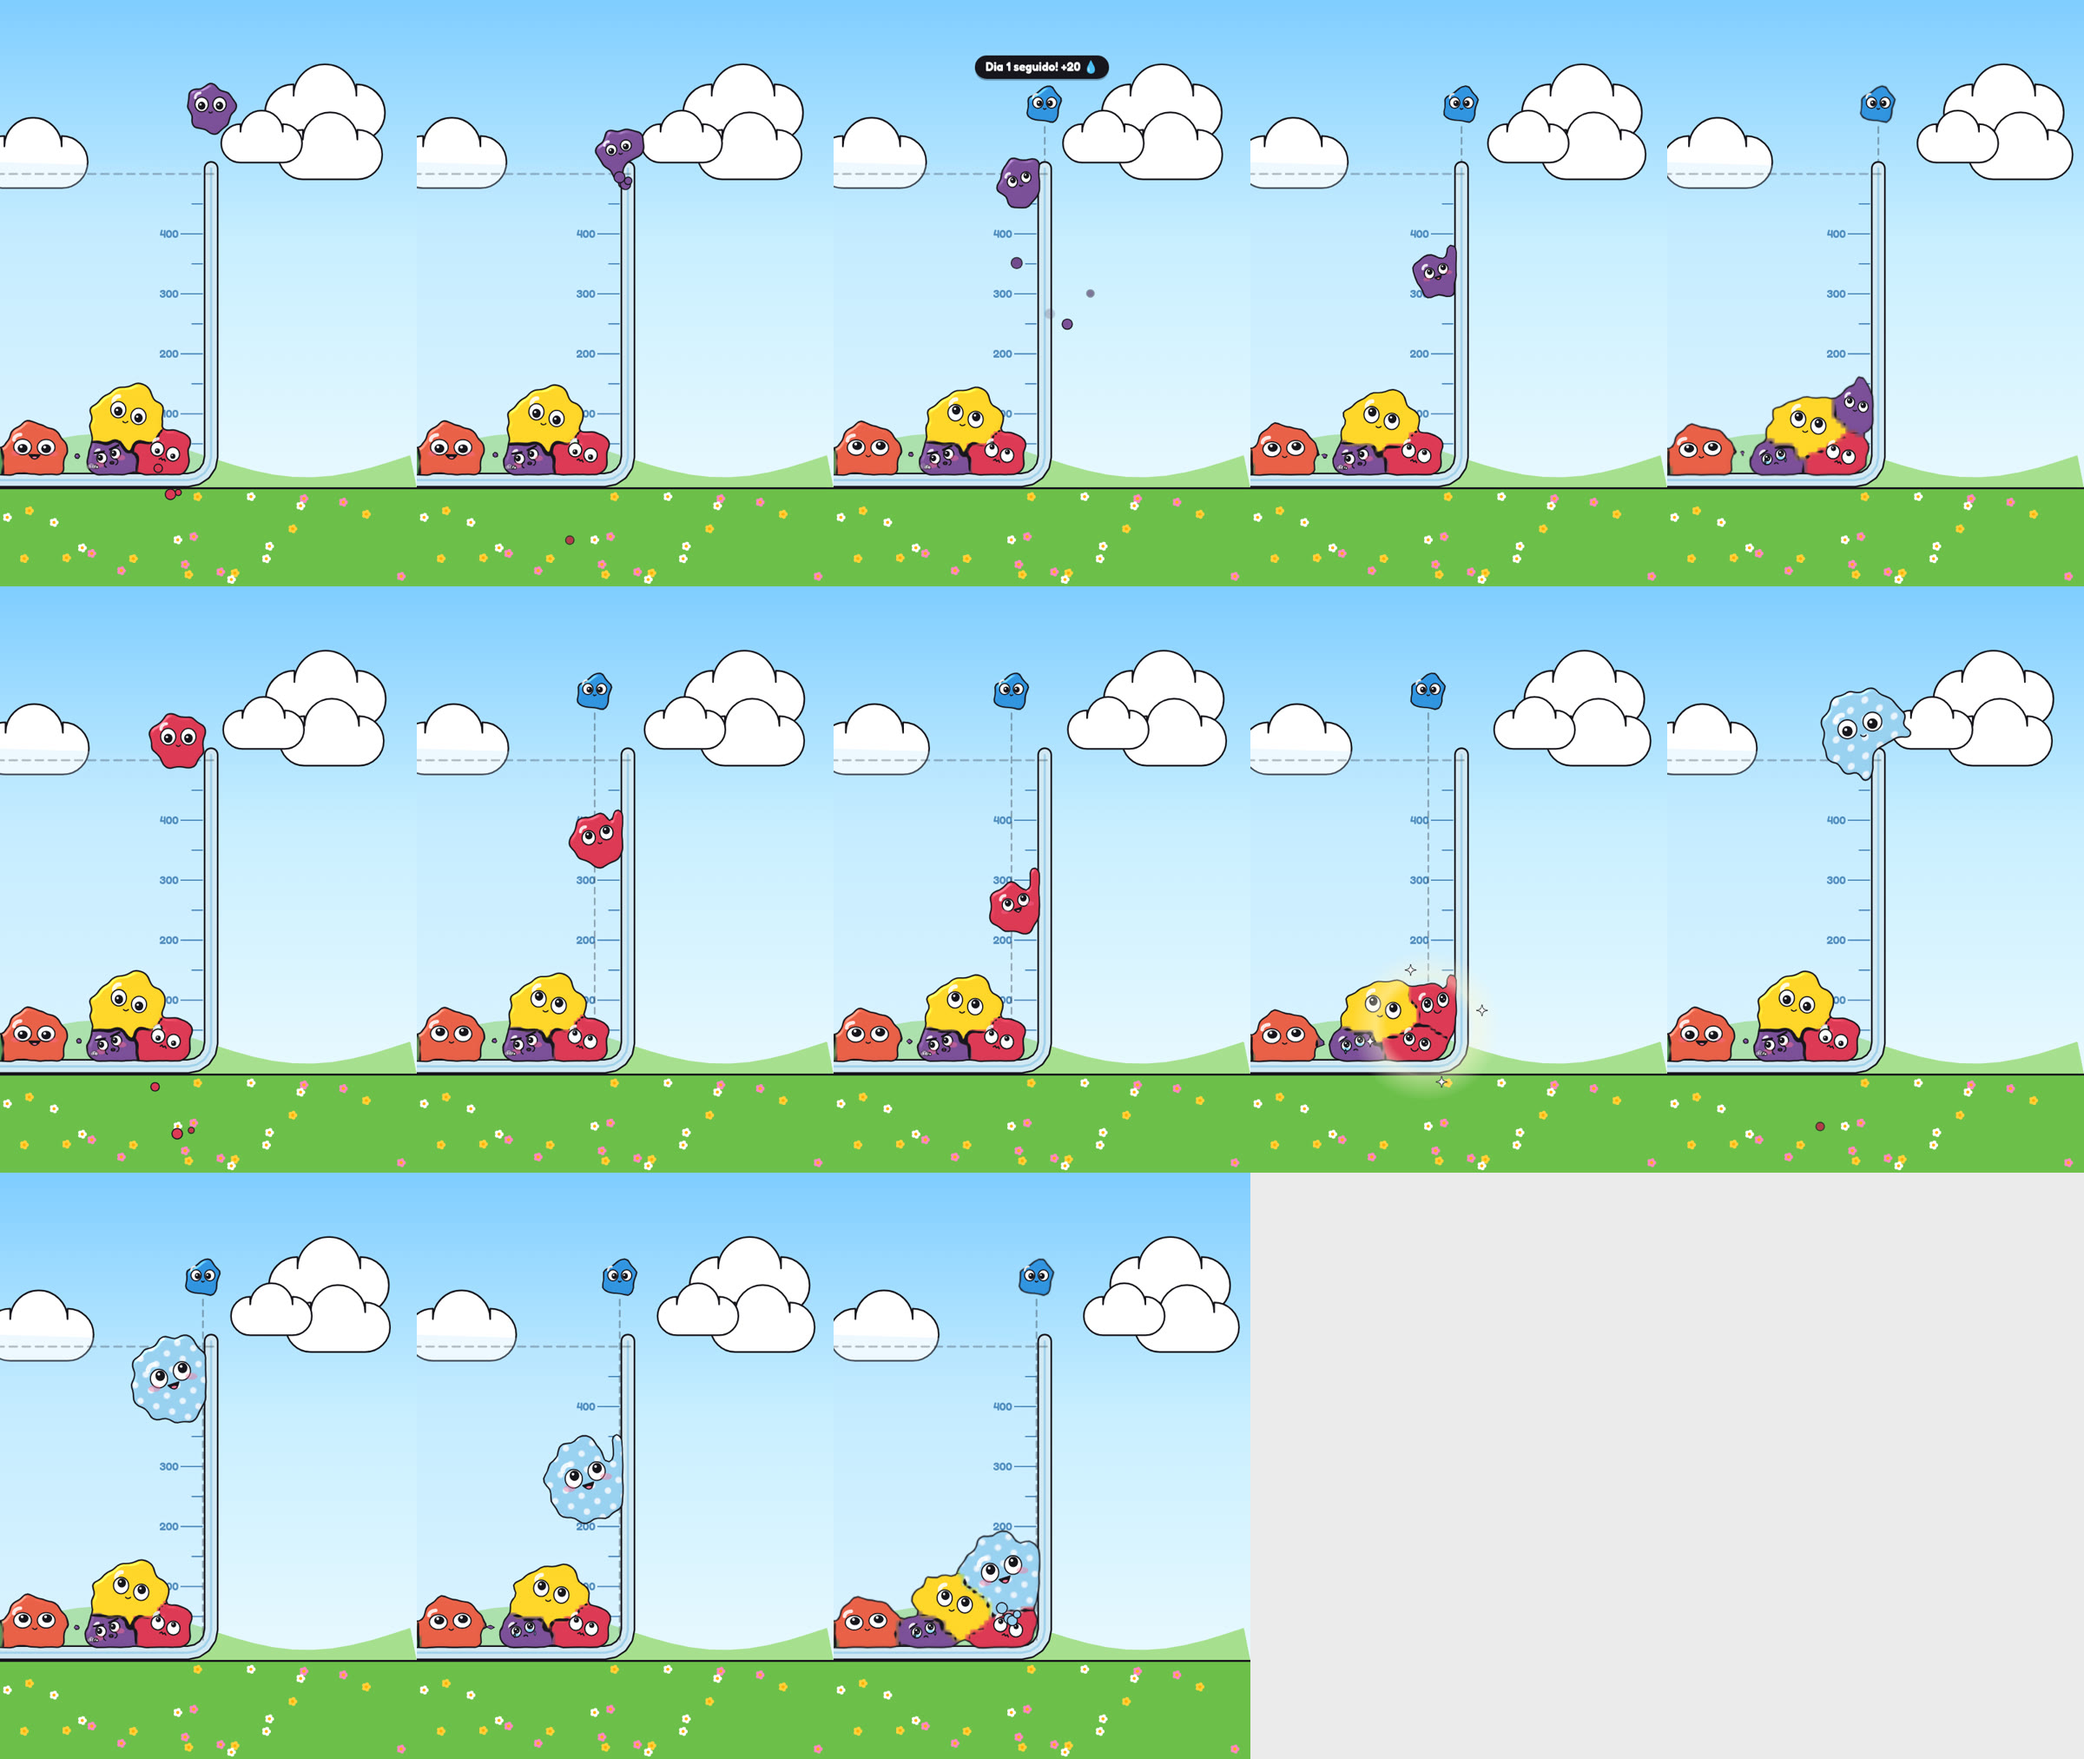
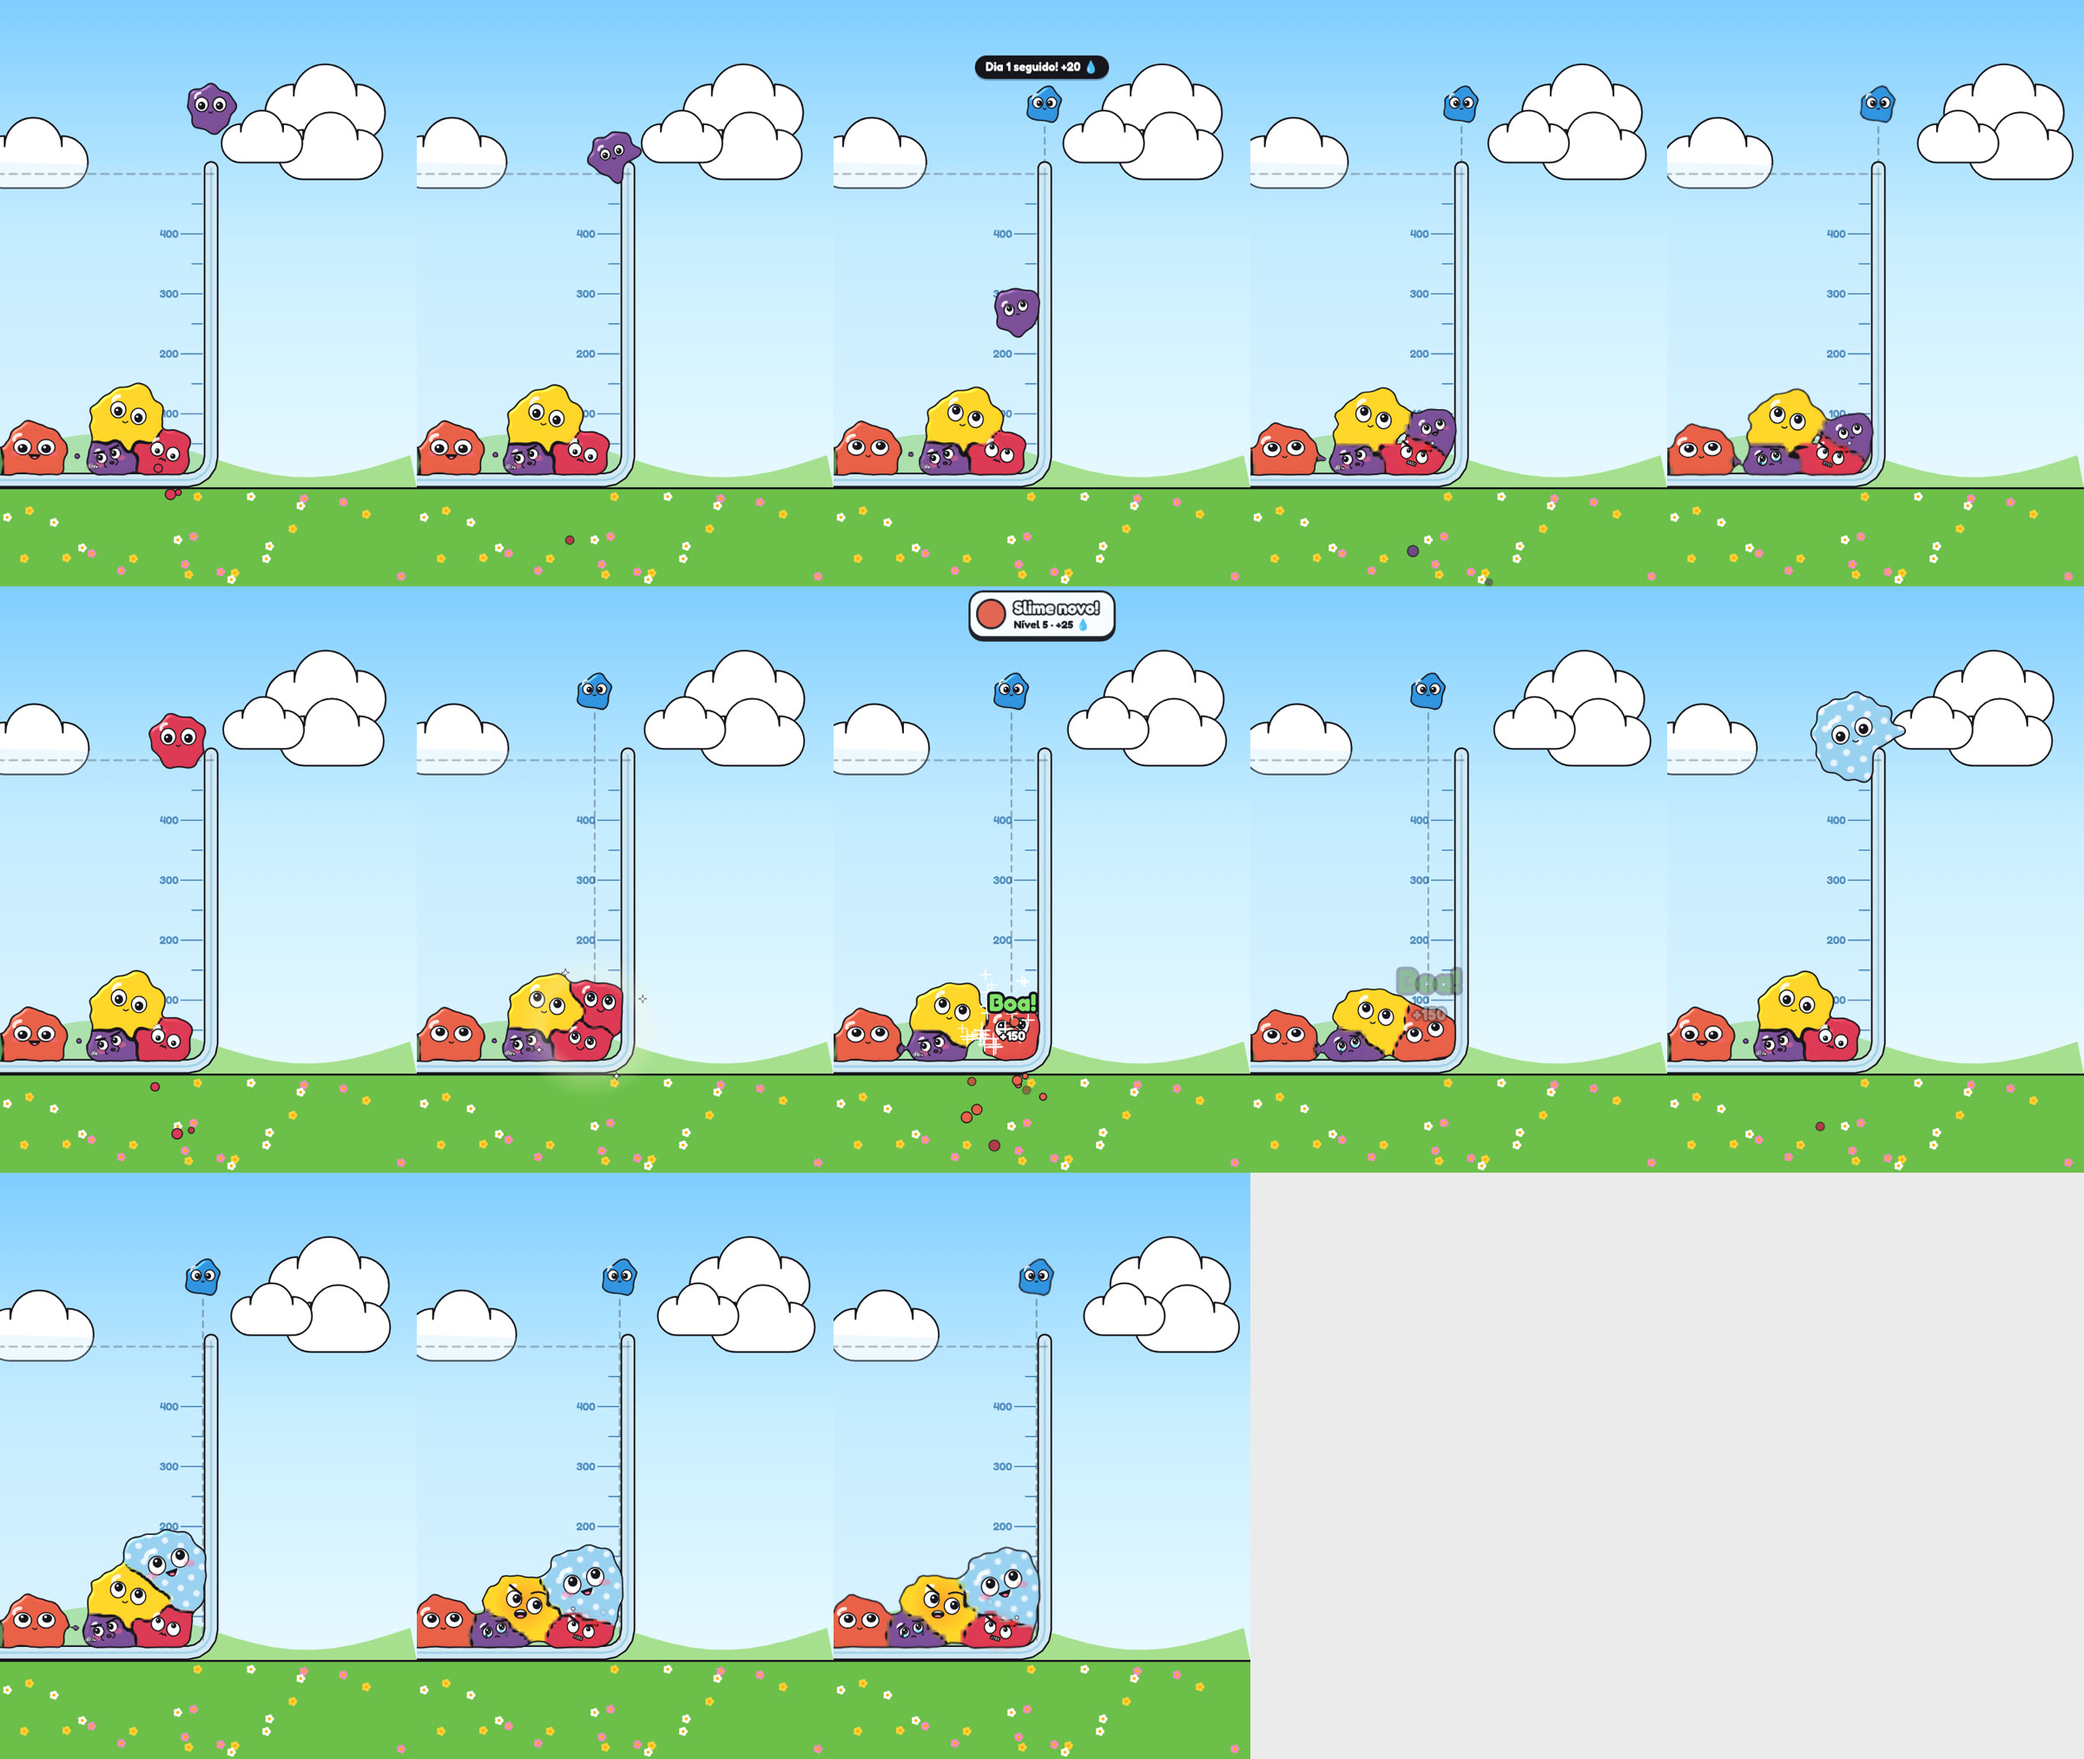
Versão 2.0.8: o slime escorre pelo vidro quase em queda livre
A 3,5 u/s o usuário achou lento demais. O vidro não tem mais teto de
velocidade: só freia o slime grudado em 7 u/s² (ADER.freio; a gravidade é 50),
o arrasto das partículas encostadas caiu de 0,1 para 0,01 e, em cima da borda,
ele sai para dentro a até 3 u/s (era 1). Do alto da borda ao meio do pote em
~0,9 s a ~20 u/s (queda livre: ~0,85 s a ~23 u/s), colado no vidro.

Varredura dos 8 cestos em 3 sementes sem "Ufa!", caçada de vazamento das 3
sementes padrão sem episódio, 192 testes. GIFs de comparação: antes, 2.0.7 e
2.0.8 (os das variantes firme e mole, da velocidade antiga, saíram).

Claude-Session: https://claude.ai/code/session_01NYogyBzEhtJefcAeRbgrnr

diff --git a/src/fisica/mundo.js b/src/fisica/mundo.js
@@ -68,15 +68,14 @@ const ESTICADA = 2.5; // raios do slime: no personagem, a particula mais longe d
  *   arrasto fracao da velocidade tangente (relativa a parede) de cada particula encostada tirada por subpasso
  *   cheio   particulas encostadas para o corpo grudar com a forca toda
  *   acelN   o maximo que o vidro segura o corpo que se afasta (u/s2)
- *   vel     velocidade maxima do corpo ao longo do vidro (u/s): o escorrer
- *   acelT   o maximo que o vidro freia o corpo acima de `vel` (u/s2; > gravidade, senao nao freia)
+ *   freio   quanto o vidro freia o corpo que escorre (u/s2; a gravidade e 50: desce quase em queda livre)
  *   giro    fracao do giro do corpo tirada por subpasso (rolar nao escorrega)
  *   mole    rigidez (fracao do k) do slime grudado na parede de lado
  *   teto    abaixo desta componente vertical da normal (vidro virado para baixo) nao gruda
  *   chao    acima dela (fundo, aba da boca do aquario) tambem nao: escorrer e na parede de lado
  *   vBorda  em cima da borda, a velocidade maxima do corpo para dentro do pote (u/s)
  */
-export const ADER = Object.freeze({ banda: 0.2, acel: 200, puxa: 0.3, arrasto: 0.1, cheio: 3, acelN: 150, vel: 3.5, acelT: 150, giro: 0.1, mole: 0.5, teto: -0.25, chao: 0.7, vBorda: 1 });
+export const ADER = Object.freeze({ banda: 0.2, acel: 200, puxa: 0.3, arrasto: 0.01, cheio: 3, acelN: 150, freio: 7, giro: 0.1, mole: 0.5, teto: -0.25, chao: 0.7, vBorda: 3 });
 
 /**
  * @typedef {Object} Slime
@@ -1625,8 +1624,9 @@ export function criarMundo({ capacidade = 4096, semente = 1, limites = [-16, -8,
    *  - cada particula ate ADER.banda alem do toque volta para o vidro (aceleracao limitada) e as
    *    encostadas arrastam um pouco: o lado do vidro achata e fica para tras, o slime estica;
    *  - o corpo inteiro (igual em todas as particulas, sem torque): nao se afasta do vidro (o que
-   *    sai da borda com a guia empurrando para dentro fica nele), escorrega no maximo a ADER.vel,
-   *    com o giro freado (rolar nao escorrega), e amolece. A forca cresce com o contato ate
+   *    sai da borda com a guia empurrando para dentro fica nele), escorrega quase em queda livre
+   *    (ADER.freio; 2026-10-18: a 3,5 u/s, o usuario achou lento demais), com o giro freado (rolar
+   *    nao escorrega), e amolece. A forca cresce com o contato ate
    *    ADER.cheio particulas encostadas, para valer igual no nivel 1 e no 13, e so na parede de lado.
    * Em cima da borda (encostado na ponta livre ou na guia), o corpo anda solto; so a velocidade
    * para dentro do pote tem teto (ADER.vBorda).
@@ -1786,8 +1786,8 @@ export function criarMundo({ capacidade = 4096, semente = 1, limites = [-16, -8,
       const tx = rvx - vn * nx;
       const ty = rvy - vn * ny;
       const vt = Math.sqrt(tx * tx + ty * ty);
-      if (vt > ADER.vel) {
-        const dt2 = vt - ADER.vel < ADER.acelT * c * DT ? vt - ADER.vel : ADER.acelT * c * DT;
+      if (vt > 1e-9) {
+        const dt2 = vt < ADER.freio * c * DT ? vt : ADER.freio * c * DT;
         dvx -= (dt2 * tx) / vt;
         dvy -= (dt2 * ty) / vt;
       }

diff --git a/test/escorrer.test.js b/test/escorrer.test.js
@@ -7,7 +7,7 @@ import { test } from 'node:test';
 import assert from 'node:assert/strict';
 import { criarModo } from '../src/jogo/modos/merge.js';
 import { CESTOS } from '../src/jogo/cestos.js';
-import { criarMundo, ADER } from '../src/fisica/mundo.js';
+import { criarMundo } from '../src/fisica/mundo.js';
 import { ADER_T } from '../src/jogo/pote.js';
 
 /** Pote largo; com `pilha`, tres slimes no fundo. */
@@ -60,7 +60,7 @@ function soltar({ modo, S, J, P, m }, k, lado, d) {
   return s;
 }
 
-test('solto em cima da borda do bequer, escorre colado no vidro de dentro (niveis 1 a 9, dois lados)', () => {
+test('solto em cima da borda do bequer, escorre colado no vidro de dentro, quase em queda livre (niveis 1 a 9, dois lados)', () => {
   for (const lado of [-1, 1]) {
     for (const k of [1, 3, 5, 7, 9]) {
       const c = pote();
@@ -76,11 +76,10 @@ test('solto em cima da borda do bequer, escorre colado no vidro de dentro (nivei
       }
       const rot = `lado ${lado} nivel ${k}`;
       assert.ok(dentro > 0 && dentro < 1.6, `${rot}: levou ${dentro.toFixed(2)} s para passar da linha`);
-      assert.ok(vs.length >= 20, `${rot}: so ${vs.length} quadros colado no vidro (pulou para longe dele)`);
-      // escorre: mais devagar que a queda (a chegada ao vidro ainda vem freando), sem parar
-      vs.sort((a, b) => a - b);
-      const med = vs[vs.length >> 1];
-      assert.ok(med > 1 && med < ADER.vel + 0.3, `${rot}: desceu o vidro a ${med.toFixed(2)} u/s (mediana)`);
+      assert.ok(vs.length >= 12, `${rot}: so ${vs.length} quadros colado no vidro (pulou para longe dele)`);
+      // escorre quase em queda livre (2026-10-18: a 3,5 u/s, o usuario achou lento demais)
+      const vmax = Math.max(...vs);
+      assert.ok(vmax > 14, `${rot}: desceu o vidro a no maximo ${vmax.toFixed(2)} u/s`);
       assert.ok(!modo.eventos.some((e) => e.tipo === 'resgate' || e.tipo === 'volta'), `${rot}: precisou do Ufa ou da rede`);
     }
   }

diff --git a/docs/autoria.md b/docs/autoria.md
@@ -348,8 +348,8 @@ Pedidos com prints anotados do Merge Lab (plano em
 - **Agora:** o slime solto gruda no lado de dentro do vidro e desce por ele a no máximo 3,5 u/s, um pouco
   mole (o lado do vidro fica para trás e deixa um "dedo" de gosma colado acima dele), até encostar em
   outro slime; aí volta ao normal. Na borda, ele desce do lado de dentro, colado no vidro.
-- **Dureza:** a média (`ADER.mole` 0,5), escolhida pelo Claude entre firme (1), média e mole (0,3), que estão
-  lado a lado em `docs/visuais/parede-comparar-{borda,encosta,grande}.gif` (com o antes); trocar é um número.
+- **Dureza:** a média (`ADER.mole` 0,5), escolhida pelo Claude entre firme (1), média e mole (0,3), que foram
+  comparadas lado a lado (com o antes) nos GIFs da 2.0.7; trocar é um número.
 - **Armadilhas que a aderência abriu e foram fechadas:** a peça presa nascia em cima do slime grande ainda
   na borda e o enganchava por uma partícula (agora ela não toca ninguém até ser solta); o slime ficava
   pendurado na ponta da borda ou na aba de dentro da boca do aquário por uma partícula (a ponta não gruda,
@@ -361,3 +361,14 @@ Pedidos com prints anotados do Merge Lab (plano em
   lançamentos vêm de fusões grandes no meio da pilha (8 a 10 por semente de 5 min nas duas versões).
 - **Build: versão 2.0.7** (`dist-poki/slime-merge-2.0.7.zip`, com a thumb), pedida pelo usuário ("mande as
   imagens e a build aqui"): 136,2 KB de áudio, 466 KB gzip.
+
+## 2026-10-18 (noite): escorrer quase em queda livre (2.0.8)
+- Pedido, depois de ver os GIFs da 2.0.7: "Ta escorregando muito lento pela parede... aumente a valocidade,
+  quase a velocidade da queda livre" e "e gera a versao 2.0.8".
+- **Agora:** o vidro não tem mais teto de velocidade (eram 3,5 u/s); ele só freia o slime em 7 u/s² (a gravidade
+  é 50) e o arrasto das partículas encostadas caiu de 0,1 para 0,01. Em cima da borda, o slime sai para dentro
+  a até 3 u/s (era 1). Do alto da borda ao meio do pote: ~0,9 s a ~20 u/s (queda livre: ~0,85 s a ~23 u/s);
+  encostado no vidro, igual à queda livre (0,55 s). Continua colado no vidro o caminho todo.
+- **Conferido:** varredura dos 8 cestos em 3 sementes sem "Ufa!" (o tempo máximo acima da linha caiu de 1,9 para
+  1,4 s), a caçada de vazamento das 3 sementes padrão sem episódio, 192 testes.
+  `docs/visuais/parede-comparar-{borda,encosta,grande}.gif`: antes | 2.0.7 | 2.0.8.

diff --git a/CLAUDE.md b/CLAUDE.md
@@ -141,7 +141,12 @@ cenários, personagens e **skins** por gotas) e **Missões** (3 do dia + sequên
   o lado do corpo, no começo do quadro) e o personagem sem atrito na partícula esticada a mais de
   `ESTICADA` raios do centro (a aba de dentro do aquário). Varredura (8 cestos × 2 lados × 3 posições ×
   níveis 1–10, 3 sementes): 0 "Ufa!" (a 2.0.6 tinha ~20 por semente, no aquário e no caldeirão). Prints:
-  `node tools/prints-parede.mjs` (`docs/visuais/parede-*`, `parede-comparar-*`: antes, firme, média, mole).
+  `node tools/prints-parede.mjs` (`docs/visuais/parede-*`).
+- **Versão 2.0.8 (2026-10-18, depois da 2.0.7):** o slime escorre pelo vidro **quase em queda livre** (a 3,5 u/s o
+  usuário achou lento): no lugar do teto de velocidade, um freio de 7 u/s² (`ADER.freio`; gravidade 50), arrasto
+  por partícula 0,01 e, em cima da borda, até 3 u/s para dentro (`vBorda`). Do alto da borda ao meio do pote em
+  ~0,9 s a ~20 u/s (queda livre: ~0,85 s a ~23 u/s), colado no vidro. `docs/visuais/parede-comparar-*`: antes,
+  2.0.7 e 2.0.8.
 - Protótipos (Croma, Loja, Molde, lab) só por `?modelo=` ou pelo hub; o `tools/empacotar.mjs`
   apaga os arquivos deles e as linhas `// prototipo` do `main.js`.
 
